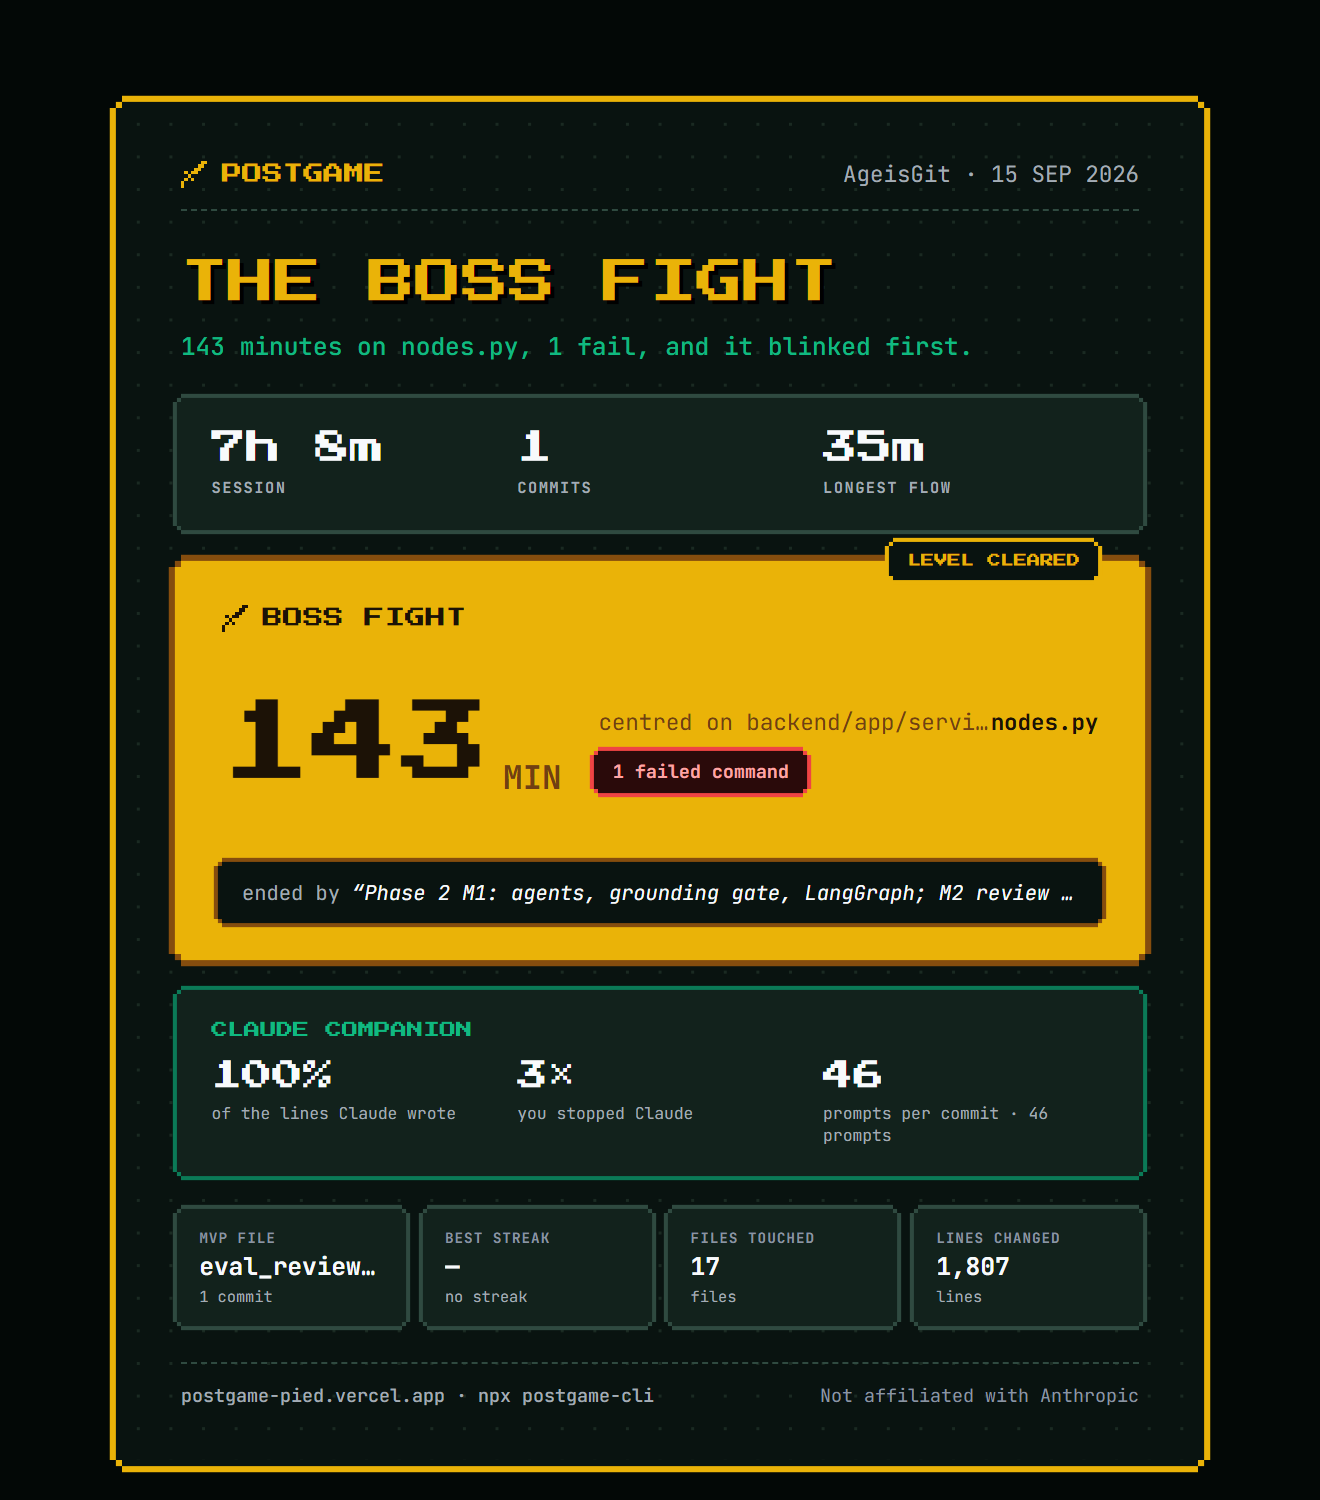
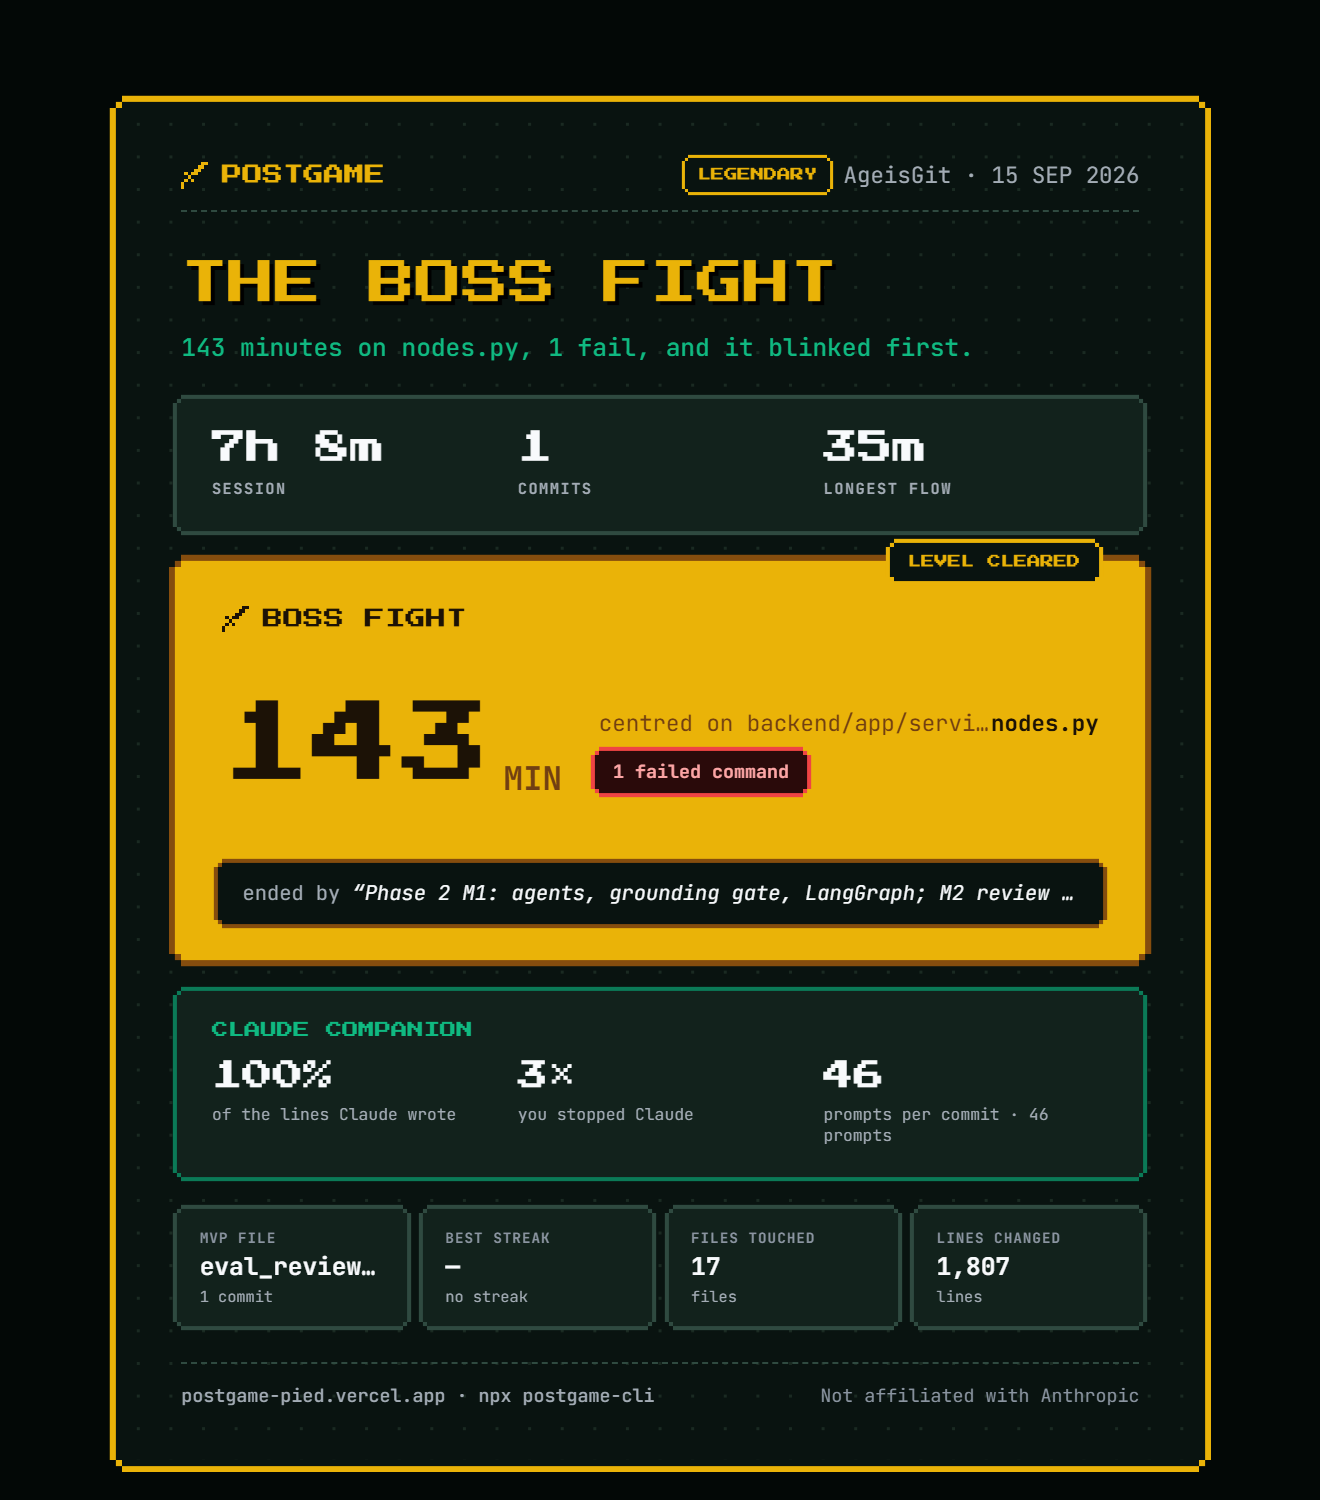
added rarity

diff --git a/web/app/r/[id]/opengraph-image.tsx b/web/app/r/[id]/opengraph-image.tsx
@@ -1,6 +1,6 @@
 import { ImageResponse } from "next/og";
 import type { Recap } from "@/components/Card/types";
-import { day, duration, num, splitPath } from "@/components/Card/format";
+import { day, duration, num, splitPath, tierOf } from "@/components/Card/format";
 import { redis, recapKey } from "@/lib/kv";
 import { C, OG_SIZE, OgFrame, OgSword, clip, ogFonts, px } from "@/lib/og";
 
@@ -23,6 +23,7 @@ export default async function Image({ params }: { params: Promise<{ id: string }
     );
   }
 
+  const tier = tierOf(recap.archetype.title);
   const boss = recap.bossFight;
   const ai = recap.ai.available ? recap.ai : null;
   const third = ai && ai.claudeLinesPct !== null
@@ -30,10 +31,19 @@ export default async function Image({ params }: { params: Promise<{ id: string }
     : { v: num(recap.stats.linesChanged), k: "lines changed" };
 
   return new ImageResponse(
-    <OgFrame left={`POSTGAME · ${clip(recap.repo, 22)}`} right={day(recap.startedAt)}>
+    <OgFrame
+      left={`POSTGAME · ${clip(recap.repo, 22)}`}
+      border={tier.color}
+      right={
+        <div style={{ display: "flex", alignItems: "center", gap: 16 }}>
+          <span style={{ ...px(C.bg, tier.color, 3), fontFamily: "Pixel", fontSize: 14, color: tier.color, padding: "6px 10px" }}>{tier.name}</span>
+          <span>{day(recap.startedAt)}</span>
+        </div>
+      }
+    >
       <div style={{ display: "flex", justifyContent: "space-between", alignItems: "center", gap: 40 }}>
         <div style={{ display: "flex", flexDirection: "column", gap: 22, width: 560 }}>
-          <div style={{ display: "flex", fontFamily: "Pixel", fontSize: 46, lineHeight: 1.3, color: C.gold, textShadow: "4px 4px 0 #000", textTransform: "uppercase" }}>
+          <div style={{ display: "flex", fontFamily: "Pixel", fontSize: 46, lineHeight: 1.3, color: tier.color, textShadow: "4px 4px 0 #000", textTransform: "uppercase" }}>
             {recap.archetype.title}
           </div>
           <div style={{ display: "flex", fontSize: 26, color: C.emerald }}>{clip(recap.archetype.subtitle, 90)}</div>

diff --git a/web/components/Card/card.css b/web/components/Card/card.css
@@ -41,7 +41,7 @@
 .pg-card .sword { width: calc(26 * var(--u)); height: calc(26 * var(--u)); fill: currentColor; flex: none; }
 
 .pg-card .recap {
-  --fill: var(--bg); --bd: var(--gold);
+  --fill: var(--bg); --bd: var(--tier, var(--gold));   /* frame colour = rarity */
   flex: 1; min-width: 0; padding: calc(52 * var(--u)) calc(58 * var(--u));
   display: flex; flex-direction: column; justify-content: space-between;
   background-image: radial-gradient(#1a2a22 calc(1.5 * var(--u)), transparent calc(1.5 * var(--u)));
@@ -54,11 +54,16 @@
   padding-bottom: calc(20 * var(--u)); border-bottom: calc(2 * var(--u)) dashed var(--line);
   font-size: calc(22 * var(--u)); color: var(--muted);
 }
+.pg-card .top-right { display: flex; align-items: center; gap: calc(16 * var(--u)); }
+.pg-card .tier {
+  --fill: var(--bg); --bd: var(--tier, var(--gold)); --p: calc(3 * var(--u));
+  font-size: calc(13 * var(--u)); color: var(--tier, var(--gold)); padding: calc(6 * var(--u)) calc(10 * var(--u));
+}
 .pg-card .brand { display: flex; align-items: center; gap: calc(14 * var(--u)); font-size: calc(20 * var(--u)); color: var(--gold); }
 
 .pg-card .hero { display: flex; flex-direction: column; gap: calc(18 * var(--u)); }
 .pg-card .archetype-title {
-  font-size: calc(46 * var(--u)); line-height: 1.35; text-transform: uppercase; color: var(--gold);
+  font-size: calc(46 * var(--u)); line-height: 1.35; text-transform: uppercase; color: var(--tier, var(--gold));
   text-shadow: calc(4 * var(--u)) calc(4 * var(--u)) 0 #000;
 }
 .pg-card .subtitle { font-size: calc(24 * var(--u)); font-weight: 500; color: var(--emerald); }

diff --git a/web/app/page.tsx b/web/app/page.tsx
@@ -4,7 +4,7 @@ import CopyCommand from "@/components/CopyCommand";
 import SampleGallery from "@/components/SampleGallery";
 import { Sword } from "@/components/Card/blocks";
 import type { Recap } from "@/components/Card/types";
-import { GITHUB_URL, NPM_URL, SAMPLE_ID } from "@/components/Card/format";
+import { GITHUB_URL, NPM_URL, SAMPLE_ID, TIERS, tierOf } from "@/components/Card/format";
 import { redis, recapKey } from "@/lib/kv";
 
 // Rebuild the page (and re-read the sample card) at most once an hour.
@@ -117,10 +117,20 @@ export default async function Home() {
           Plus a title picked by plain rules, not AI:{" "}
           {TITLES.map((t, i) => (
             <span key={t}>
-              <span className="text-[#eab308]">{t}</span>
+              <span style={{ color: tierOf(t).color }}>{t}</span>
               {i < TITLES.length - 1 ? " · " : "."}
             </span>
           ))}
+        </p>
+        <p className="text-[#a3acb5]">
+          Titles come in four rarities —{" "}
+          {TIERS.map((t, i) => (
+            <span key={t.name}>
+              <span className="font-pixel text-xs" style={{ color: t.color }}>{t.name}</span>
+              {i < TIERS.length - 1 ? ", " : ""}
+            </span>
+          ))}
+          {" "}— by how unusual that kind of session is, not how good it was. The link doesn&apos;t tell you which one you got: open it and watch the card turn over.
         </p>
       </section>
 

diff --git a/web/app/r/[id]/page.tsx b/web/app/r/[id]/page.tsx
@@ -1,11 +1,12 @@
 import type { Metadata } from "next";
+import type { CSSProperties } from "react";
 import { notFound } from "next/navigation";
 import { cache } from "react";
 import Card from "@/components/Card/Card";
 import CardActions from "@/components/Card/CardActions";
 import { Sword } from "@/components/Card/blocks";
 import SampleGallery from "@/components/SampleGallery";
-import { SAMPLES } from "@/components/Card/format";
+import { SAMPLES, tierOf } from "@/components/Card/format";
 import type { Recap } from "@/components/Card/types";
 import { redis, recapKey } from "@/lib/kv";
 
@@ -36,7 +37,10 @@ export default async function RecapPage({ params }: PageProps<"/r/[id]">) {
   return (
     <main className="flex flex-1 flex-col items-center gap-6 px-4 py-8 sm:py-12">
       {/* fit the whole card on screen: 600px wide at most, or less if the window is short */}
-      <div className="reveal w-full max-w-[min(600px,calc((100svh-7rem)*0.8))] min-w-[280px]">
+      <div
+        className="reveal w-full max-w-[min(600px,calc((100svh-7rem)*0.8))] min-w-[280px]"
+        style={{ "--tier": tierOf(recap.archetype.title).color } as CSSProperties}
+      >
         {/* the card lands face down, then flips over (CSS: .reveal in globals.css) */}
         <div className="reveal-inner">
           <div className="reveal-back pg-px" aria-hidden="true">

diff --git a/web/components/Card/format.ts b/web/components/Card/format.ts
@@ -13,7 +13,23 @@ export const SAMPLE_ID = SAMPLES[0].id;
 export const GITHUB_URL = "https://github.com/jaineel132/postgame";
 export const NPM_URL = "https://www.npmjs.com/package/postgame-cli";
 
-export const duration = (min: number) => (min < 60 ? `${min}m` : `${Math.floor(min / 60)}h ${min % 60}m`);
+// Rarity = how unusual a title is, not how good the session was. The Grind is common because it's the fallback.
+const TIER = {
+  legendary: { name: "LEGENDARY", color: "#eab308" },
+  epic: { name: "EPIC", color: "#a855f7" },
+  rare: { name: "RARE", color: "#3b82f6" },
+  common: { name: "COMMON", color: "#94a3b8" },
+};
+const TIER_OF: Record<string, keyof typeof TIER> = {
+  "The Boss Fight": "legendary", "Clean Sweep": "legendary",
+  "Death by a Thousand Cuts": "epic", "Backseat Driver": "epic",
+  "Deep Work": "rare", "Autopilot": "rare", "Vibe Coded": "rare",
+  "The Scattergun": "common", "The Grind": "common",
+};
+export const TIERS = Object.values(TIER);
+export const tierOf = (title: string) => TIER[TIER_OF[title] ?? "common"];
+
+export const duration =(min: number) => (min < 60 ? `${min}m` : `${Math.floor(min / 60)}h ${min % 60}m`);
 
 export const num = (n: number) => n.toLocaleString("en-US");
 

diff --git a/web/lib/og.tsx b/web/lib/og.tsx
@@ -48,10 +48,10 @@ export function OgSword({ size = 26 }: { size?: number }) {
 }
 
 // Page background + the gold-bordered card, with a top bar (left / right) and the rest below.
-export function OgFrame({ left, right, children }: { left: string; right: string; children: ReactNode }) {
+export function OgFrame({ left, right, children, border = C.gold }: { left: string; right: ReactNode; children: ReactNode; border?: string }) {
   return (
     <div style={{ width: "100%", height: "100%", display: "flex", padding: 20, background: C.page, fontFamily: "Mono" }}>
-      <div style={{ ...px(C.bg, C.gold, 6), flex: 1, display: "flex", flexDirection: "column", justifyContent: "space-between", padding: "40px 48px" }}>
+      <div style={{ ...px(C.bg, border, 6), flex: 1, display: "flex", flexDirection: "column", justifyContent: "space-between", padding: "40px 48px" }}>
         <div style={{ display: "flex", justifyContent: "space-between", alignItems: "center", fontSize: 22, color: C.muted }}>
           <div style={{ display: "flex", alignItems: "center", gap: 14, fontFamily: "Pixel", fontSize: 20, color: C.gold }}>
             <OgSword />

diff --git a/web/components/Card/Card.tsx b/web/components/Card/Card.tsx
@@ -1,14 +1,18 @@
 import "./card.css";
 import type { Recap } from "./types";
 import { BigStats, BossFight, ClaudeStrip, Footer, Hero, SmallStats } from "./blocks";
-import { CARD_ID } from "./format";
+import type { CSSProperties } from "react";
+import { CARD_ID, tierOf } from "./format";
 
 // `idless` for extra cards on a page (gallery), so the PNG export only ever finds the main one.
 export default function Card({ recap, idless = false }: { recap: Recap; idless?: boolean }) {
   const ai = recap.ai.available ? recap.ai : null;
   return (
     <div className="pg-frame" id={idless ? undefined : CARD_ID}>
-      <article className={`pg-card${ai ? "" : " git-only"}${!ai && !recap.bossFight ? " sparse" : ""}`}>
+      <article
+        className={`pg-card${ai ? "" : " git-only"}${!ai && !recap.bossFight ? " sparse" : ""}`}
+        style={{ "--tier": tierOf(recap.archetype.title).color } as CSSProperties}
+      >
         <div className="recap px px-lg">
           <Hero repo={recap.repo} startedAt={recap.startedAt} archetype={recap.archetype} />
           <BigStats durationMin={recap.durationMin} stats={recap.stats} />

diff --git a/web/components/SampleGallery.tsx b/web/components/SampleGallery.tsx
@@ -2,7 +2,7 @@ import type { CSSProperties } from "react";
 import Link from "next/link";
 import Card from "@/components/Card/Card";
 import type { Recap } from "@/components/Card/types";
-import { SAMPLES } from "@/components/Card/format";
+import { SAMPLES, tierOf } from "@/components/Card/format";
 import { redis, recapKey } from "@/lib/kv";
 
 export async function getSamples() {
@@ -33,7 +33,9 @@ export default async function SampleGallery({ current }: { current?: string }) {
           style={{ "--i": i, "--r": `${(i - mid) * 8}deg`, "--y": `${(i - mid) ** 2 * 10}px` } as CSSProperties}
         >
           <Card recap={s.recap} idless />
-          <span className="deck-label font-pixel">{s.label.toUpperCase()} · {s.recap.repo}</span>
+          <span className="deck-label font-pixel" style={{ color: tierOf(s.recap.archetype.title).color }}>
+            {tierOf(s.recap.archetype.title).name} · {s.label.toUpperCase()} · {s.recap.repo}
+          </span>
         </Link>
       ))}
     </div>

diff --git a/web/app/globals.css b/web/app/globals.css
@@ -70,7 +70,12 @@ body {
 }
 
 /* ---- Recap page: the card lands face down, then flips over ---- */
-.reveal { perspective: 1800px; container-type: inline-size; }
+.reveal { perspective: 1800px; container-type: inline-size; animation: land-glow 1.4s ease-out 2s both; }
+/* as the card lands, a flash in its rarity colour */
+@keyframes land-glow {
+  0%, 100% { filter: none; }
+  30% { filter: drop-shadow(0 0 36px var(--tier, #eab308)); }
+}
 .reveal-inner {
   position: relative; transform-style: preserve-3d;
   animation: flip 2s ease-out .3s both;
@@ -95,7 +100,7 @@ body {
 @keyframes fade-up { from { opacity: 0; transform: translateY(12px); } }
 
 @media (prefers-reduced-motion: reduce) {
-  .deck-card, .reveal-inner, .reveal-after { animation: none; transition: none; }
+  .deck-card, .reveal, .reveal-inner, .reveal-after { animation: none; transition: none; }
 }
 
 /* Pixel-corner box for the site pages (fixed 4px steps). Set --fill and --bd. */

diff --git a/web/components/Card/blocks.tsx b/web/components/Card/blocks.tsx
@@ -1,5 +1,5 @@
 import type { Ai, Recap } from "./types";
-import { SITE, day, duration, num, plural, splitPath } from "./format";
+import { SITE, day, duration, num, plural, splitPath, tierOf } from "./format";
 
 export function Sword() {
   return (
@@ -14,7 +14,10 @@ export function Hero({ repo, startedAt, archetype }: Pick<Recap, "repo" | "start
     <>
       <div className="top-bar">
         <div className="brand pixel"><Sword />POSTGAME</div>
-        <div>{repo} · {day(startedAt)}</div>
+        <div className="top-right">
+          <span className="tier px pixel">{tierOf(archetype.title).name}</span>
+          <span>{repo} · {day(startedAt)}</span>
+        </div>
       </div>
       <div className="hero">
         <h1 className="archetype-title pixel">{archetype.title}</h1>
